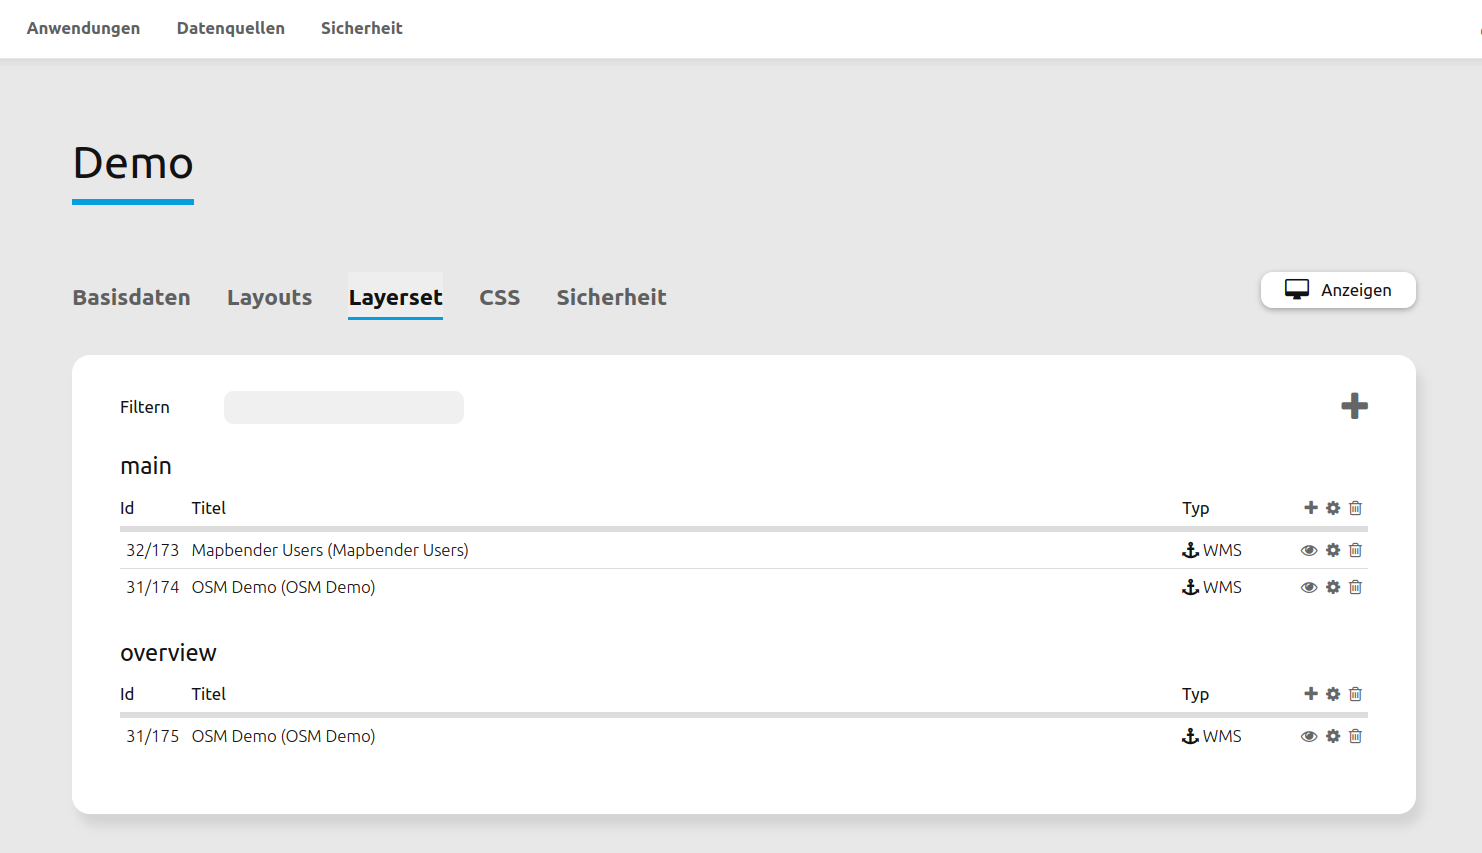
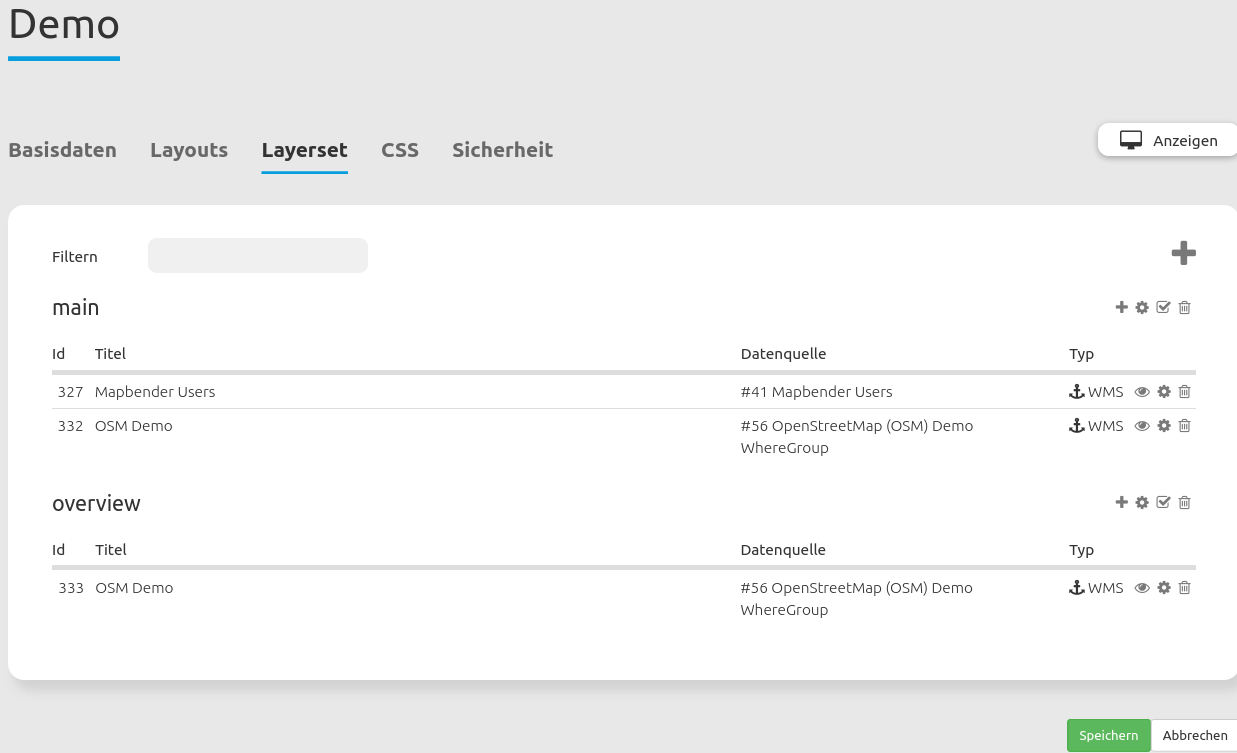
Update Quickstart Layerset configuration screenshot + minor text changes

diff --git a/en/quickstart.rst b/en/quickstart.rst
@@ -255,13 +255,13 @@ Mapbender allows the integration of OGC Web Map Services (WMS) and Web Map Tile 
 
 #. To upload a source, click on ``Add source``.
 
-#. Define the *"Type"* of the source: OGC WMS oder OGC WMTS / TMS.
+#. Define the *"Type"* of the source: OGC WMS or OGC WMTS / TMS.
 
-#. Provide the link to the getCapabilities URL in the field *"Service-URL"*.
+#. Provide the link to the getCapabilities URL in the field *Service URL*.
 
-#. Define username and password in case your source requires it.
+#. Define username and password (in case your source requires it).
 
-#. Click on *"load"* to upload the service in the repository.
+#. Click on ``Load`` to upload the service into the repository.
 
 #. After a successful upload, Mapbender will provide an overview of the WMS information.
 
@@ -276,7 +276,7 @@ After uploading a service, it can be integrated into one or several application(
 
 #. Navigate to your application overview page. Click on the |mapbender-button-edit| ``Button`` of the desired application and navigate to the tab *Layersets*.
 
-#. In the section *layersets* you can integrate uploaded sources into your application. Click on |mapbender-button-add| ``Button`` next to the filter function to create a layerset. All layers have to be assigned to one layerset. Provide a name for it (e.g. "main" for the main map and "overview" for the overview map).
+#. In the *Layersets* section you can integrate uploaded sources into your application. Click on |mapbender-button-add| ``Button`` next to the filter function to create a layerset. All layers have to be assigned to at least one layerset. Provide a name for it (e.g. "main" for the main map and "overview" for the overview map).
 
 #. Now you can add layers to the layerset. Click on the |mapbender-button-add| ``Button`` next to the desired layerset.
 
@@ -288,9 +288,9 @@ After uploading a service, it can be integrated into one or several application(
 Source configuration
 --------------------
 
-Sources can be individually configured. This can be useful if you, for instance, don't want to display all layers, change the order or titles of the layers, prevent a layer's feature info output or adjust  the scale in which the layers are visible.
+Sources can be individually configured. This can be useful if you, for instance, don't want to display all layers, change the order or titles of the layers, prevent a layer's feature info output or adjust the scale in which the layers are visible.
 
-#. Click on  ``Application -->`` |mapbender-button-edit| ``Button --> Layersets -->`` |mapbender-button-edit| ``Edit instance`` to configurate an instance.
+#. Click on  ``Application -->`` |mapbender-button-edit| ``Button`` --> ``Layersets`` --> |mapbender-button-edit| ``Edit instance`` to configure an instance.
 
 #. You can now change the instance configuration.
 

diff --git a/de/quickstart.rst b/de/quickstart.rst
@@ -232,7 +232,7 @@ Versuchen Sie es selbst
 Datenquellen (Sources) verwenden
 ================================
 
-In Mapbender können Dienste vom Typ OGC WMS und OGC WMTS / TMS eingeladen werden. Durch einen Klick auf ``Datenquellen`` kann zu einer Übersicht mit allen hinzugefügten Diensten navigiert werden. Diese ist noch einmal in eine Liste mit allen Datenquellen sowie den freien Instanzen untergliedert. Mehr Informationen zu privaten und freien Instanzen finden sich auf der Seite :ref:`Layerst <layerset_de>` .
+In Mapbender können Dienste vom Typ OGC WMS und OGC WMTS / TMS eingeladen werden. Durch einen Klick auf ``Datenquellen`` kann zu einer Übersicht mit allen hinzugefügten Diensten navigiert werden. Diese ist wiederum in eine Liste mit allen Datenquellen sowie den freien Instanzen untergliedert. Mehr Informationen zu privaten und freien Instanzen finden sich auf der Seite :ref:`Layerst <layerset_de>` .
 
 Die Übersichtsseite bietet dem Nutzer folgende Funktionen:
 
@@ -257,11 +257,11 @@ Sie können OGC Web Map Services (WMS) und Web Map Tile Services (WMTS) in Ihre 
 
 #. Definieren Sie den *"Typ"* des Dienstes: OGC WMS oder OGC WMTS / TMS.
 
-#. Geben Sie den Link zur getCapabilities URL in das Textfeld *"Dienst-URL"* ein.
+#. Geben Sie den Link zur getCapabilities URL in das Textfeld *Dienst-URL* ein.
 
 #. Geben Sie Benutzername und Kennwort ein, sofern der Dienst eine Authentifizierung benötigt.
 
-#. Klicken Sie *"Laden"*, um den Dienst in das Dienst-Repository zu laden.
+#. Klicken Sie ``Laden``, um den Dienst in das Dienst-Repository zu laden.
 
 #. Nach erfolgreicher Registrierung des Dienstes zeigt Mapbender eine Übersicht der Informationen an, die der Dienst geliefert hat.
 
@@ -280,7 +280,7 @@ Nachdem ein Dienst in Mapbender geladen wurde, kann dieser zu einer oder mehrere
 
 #. Jetzt können Sie Dienste zum Layerset hinzufügen. Wählen Sie dafür den |mapbender-button-add| ``Button`` des jeweiligen Layersets.
 
-#. Die Reihenfolge der Dienste kann über drag & drop verändert werden.
+#. Die Reihenfolge der Dienste kann über Drag & Drop verändert werden.
 
   .. image:: ../figures/de/mapbender_add_source_to_application.png
      :width: 100%
@@ -294,7 +294,7 @@ Sie können Dienste für Ihre Anwendung konfigurieren. Vielleicht möchten Sie s
 
 #. Sie können nun Ihren Dienst konfigurieren.
 
-#. Sie können die Reihenfolge der Layer über drag & drop ändern.
+#. Sie können die Reihenfolge der Layer über Drag & Drop ändern.
 
 .. image:: ../figures/de/mapbender_source_configuration.png
    :width: 100%
